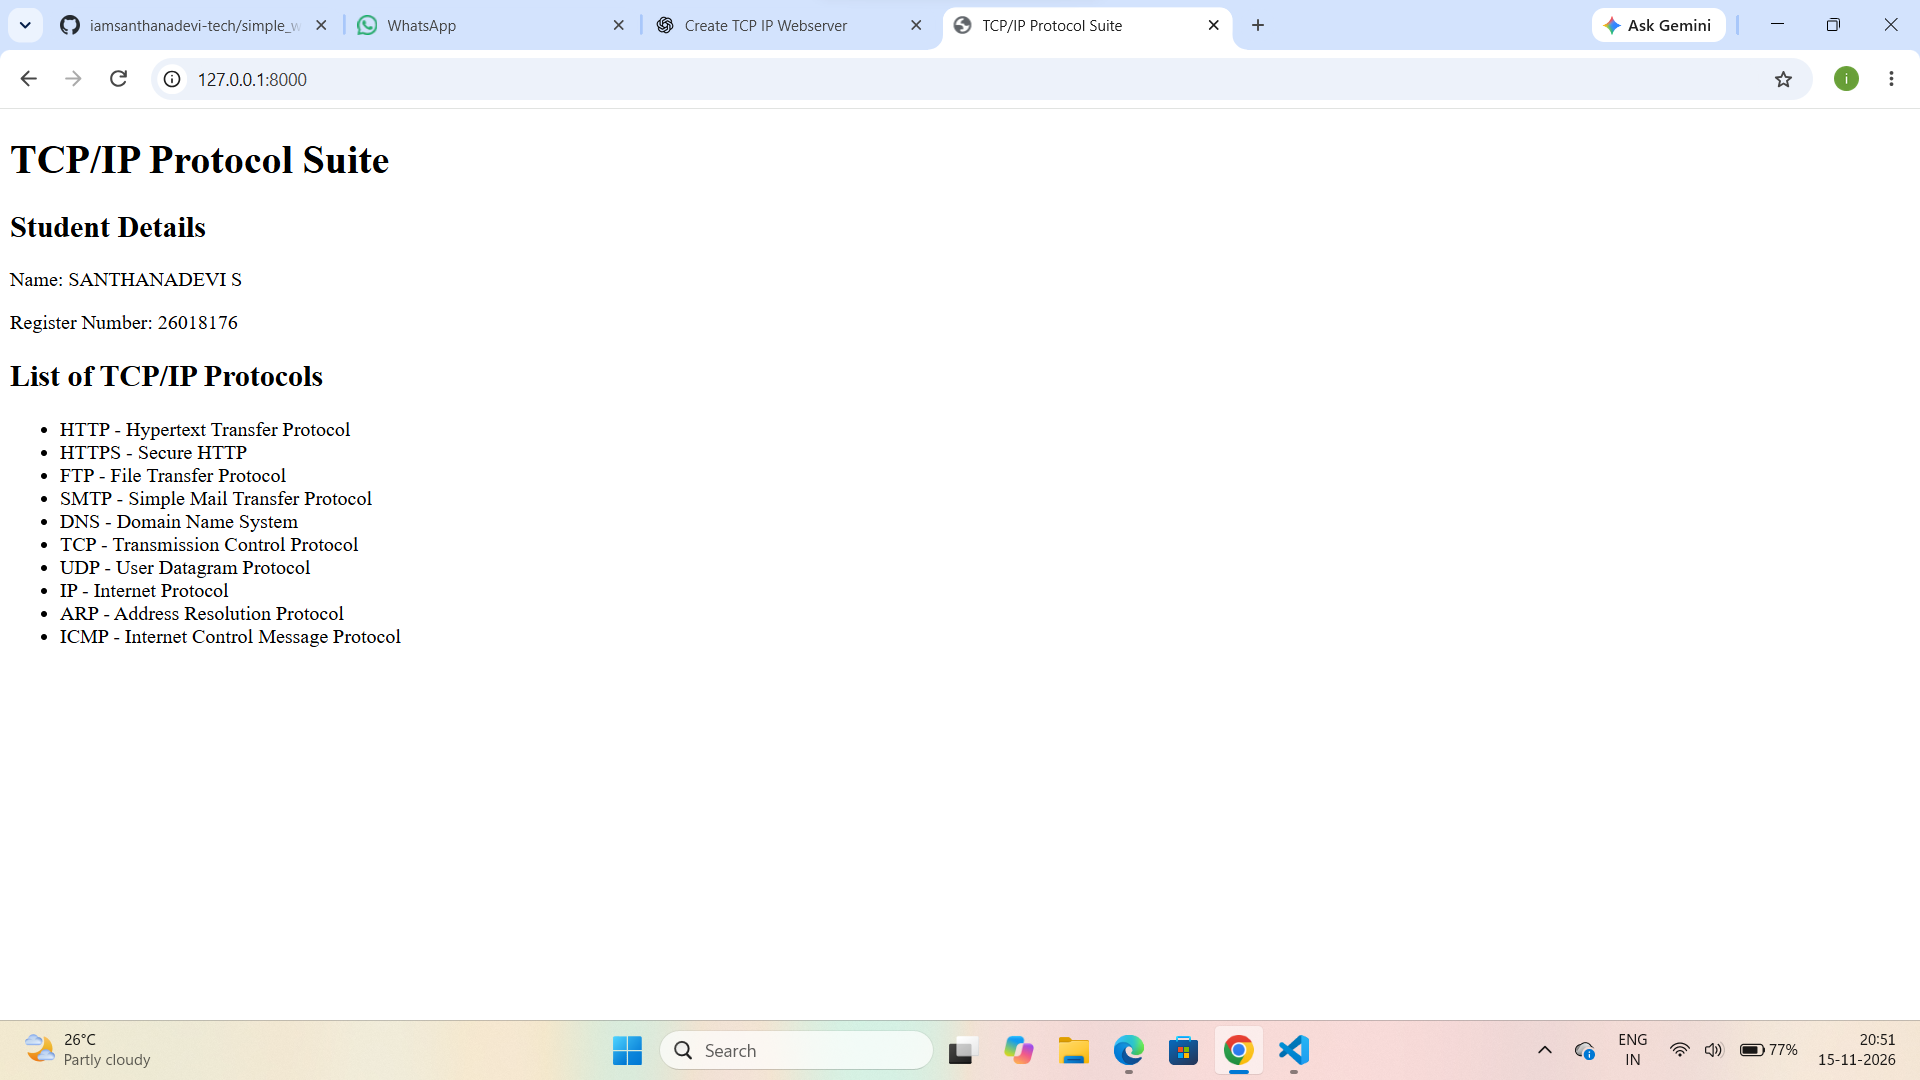
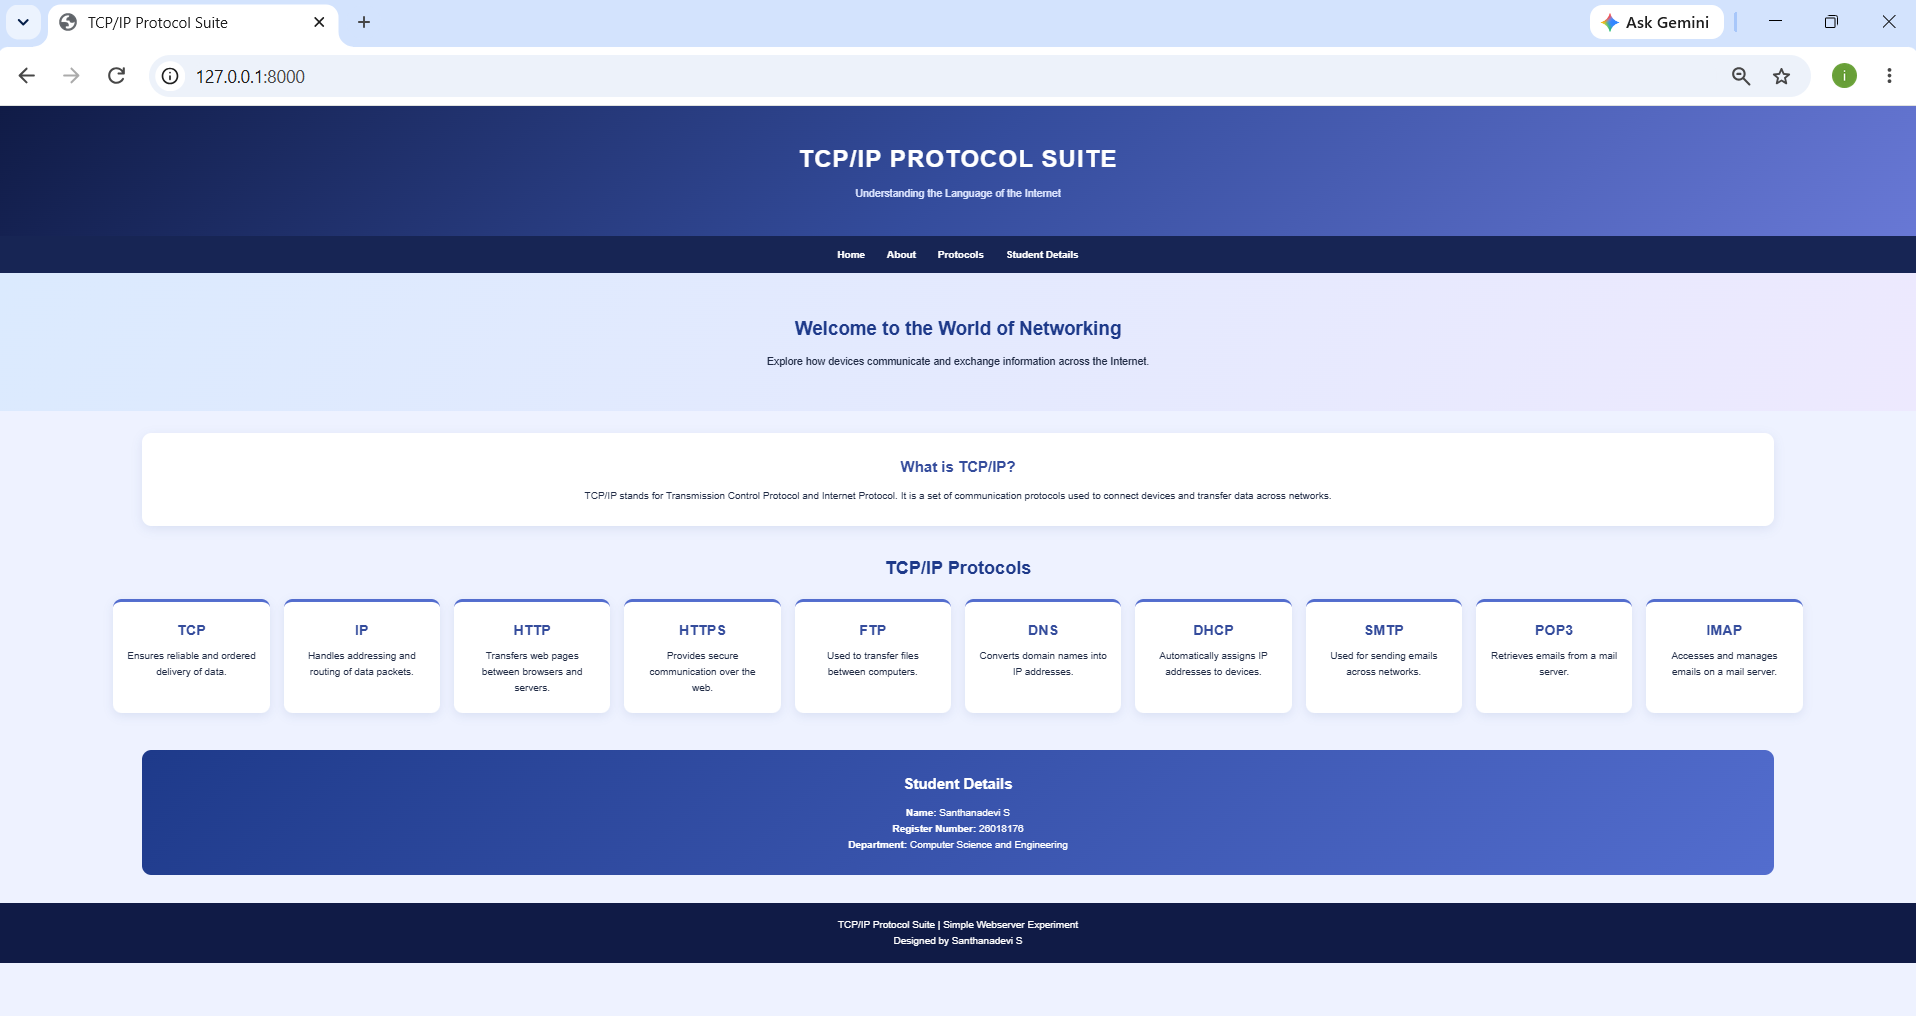
Updated Simple Web Server Experiment

diff --git a/README.md b/README.md
@@ -20,20 +20,288 @@ Serving the HTML pages.
 ## Step 5:
 Testing the webserver.
 
-# PROGRAM:from http.server import HTTPServer, SimpleHTTPRequestHandler
+# PROGRAM:PROGRAM:
+from http.server import HTTPServer, SimpleHTTPRequestHandler
 
-server_address = ("127.0.0.1", 8000)
+HOST = "127.0.0.1"
+PORT = 8000
 
-http_server = HTTPServer(
-    server_address,
-    SimpleHTTPRequestHandler
-)
+server = HTTPServer((HOST, PORT), SimpleHTTPRequestHandler)
 
-print("Web Server is running...")
-print("Open http://127.0.0.1:8000")
+print("TCP/IP Web Server Started!")
+print(f"Open your browser: http://{HOST}:{PORT}")
 
-http_server.serve_forever()
-# OUTPUT:<img width="1920" height="1080" alt="output" src="https://github.com/user-attachments/assets/38652850-9db1-4acf-afca-03f31d4b5b3a" />
+try:
+    server.serve_forever()
+except KeyboardInterrupt:
+    print("Server stopped.")
+    server.server_close()
+HTML PROGRAM:
+<!DOCTYPE html>
+<html lang="en">
+<head>
+    <meta charset="UTF-8">
+    <meta name="viewport" content="width=device-width, initial-scale=1.0">
+    <title>TCP/IP Protocol Suite</title>
+    <link rel="stylesheet" href="style.css">
+</head>
+<body>
 
+<header>
+    <h1>TCP/IP PROTOCOL SUITE</h1>
+    <p>Understanding the Language of the Internet</p>
+</header>
+
+<nav>
+    <a href="#home">Home</a>
+    <a href="#about">About</a>
+    <a href="#protocols">Protocols</a>
+    <a href="#student">Student Details</a>
+</nav>
+
+<section id="home" class="hero">
+    <h2>Welcome to the World of Networking</h2>
+    <p>Explore how devices communicate across the Internet.</p>
+</section>
+
+<section id="about" class="about">
+    <h2>What is TCP/IP?</h2>
+    <p>
+        TCP/IP stands for Transmission Control Protocol and
+        Internet Protocol. It is a set of communication
+        protocols used to connect devices and transfer data.
+    </p>
+</section>
+
+<section id="protocols">
+    <h2 class="section-title">TCP/IP Protocols</h2>
+    <div class="protocol-container">
+
+        <div class="protocol-card">
+            <h3>TCP</h3>
+            <p>Ensures reliable delivery of data.</p>
+        </div>
+
+        <div class="protocol-card">
+            <h3>IP</h3>
+            <p>Handles addressing and routing.</p>
+        </div>
+
+        <div class="protocol-card">
+            <h3>HTTP</h3>
+            <p>Transfers web pages.</p>
+        </div>
+
+        <div class="protocol-card">
+            <h3>HTTPS</h3>
+            <p>Provides secure web communication.</p>
+        </div>
+
+        <div class="protocol-card">
+            <h3>FTP</h3>
+            <p>Transfers files between computers.</p>
+        </div>
+
+        <div class="protocol-card">
+            <h3>DNS</h3>
+            <p>Converts domain names into IP addresses.</p>
+        </div>
+
+        <div class="protocol-card">
+            <h3>DHCP</h3>
+            <p>Assigns IP addresses automatically.</p>
+        </div>
+
+        <div class="protocol-card">
+            <h3>SMTP</h3>
+            <p>Used for sending emails.</p>
+        </div>
+
+        <div class="protocol-card">
+            <h3>POP3</h3>
+            <p>Retrieves emails from a server.</p>
+        </div>
+
+        <div class="protocol-card">
+            <h3>IMAP</h3>
+            <p>Manages emails on a server.</p>
+        </div>
+
+    </div>
+</section>
+
+<section id="student" class="student">
+    <h2>Student Details</h2>
+    <p><strong>Name:</strong> Santhanadevi S</p>
+    <p><strong>Register Number:</strong> 26018176</p>
+    <p><strong>Department:</strong> Computer Science and Engineering</p>
+</section>
+
+<footer>
+    <p>TCP/IP Protocol Suite | Simple Webserver Experiment</p>
+    <p>Designed by Santhanadevi S</p>
+</footer>
+
+</body>
+</html>
+CSS PROGRAM:
+* {
+    margin: 0;
+    padding: 0;
+    box-sizing: border-box;
+    scroll-behavior: smooth;
+}
+
+body {
+    font-family: Arial, sans-serif;
+    background: #eef2ff;
+    color: #202b45;
+    line-height: 1.6;
+}
+
+header {
+    background: linear-gradient(135deg, #101b46, #344c9c, #6878d5);
+    color: white;
+    text-align: center;
+    padding: 55px 20px;
+}
+
+header h1 {
+    font-size: 38px;
+    letter-spacing: 2px;
+    margin-bottom: 10px;
+}
+
+header p {
+    font-size: 17px;
+    color: #dce5ff;
+}
+
+nav {
+    background: #172554;
+    display: flex;
+    justify-content: center;
+    flex-wrap: wrap;
+    gap: 35px;
+    padding: 17px;
+}
+
+nav a {
+    color: white;
+    text-decoration: none;
+    font-weight: bold;
+    transition: 0.3s;
+}
+
+nav a:hover {
+    color: #93c5fd;
+}
+
+.hero {
+    text-align: center;
+    padding: 65px 20px;
+    background: linear-gradient(120deg, #dbeafe, #ede9fe);
+}
+
+.hero h2 {
+    font-size: 30px;
+    color: #1e3a8a;
+    margin-bottom: 15px;
+}
+
+.hero p {
+    font-size: 17px;
+    max-width: 700px;
+    margin: auto;
+}
+
+.about {
+    background: white;
+    margin: 35px auto;
+    padding: 35px;
+    width: 85%;
+    border-radius: 15px;
+    box-shadow: 0 5px 18px rgba(30, 58, 138, 0.10);
+    text-align: center;
+}
+
+.about h2 {
+    color: #344c9c;
+    margin-bottom: 15px;
+}
+
+.section-title {
+    text-align: center;
+    color: #1e3a8a;
+    font-size: 29px;
+    margin: 45px 0 25px;
+}
+
+.protocol-container {
+    width: 88%;
+    margin: auto;
+    display: grid;
+    grid-template-columns: repeat(auto-fit, minmax(220px, 1fr));
+    gap: 22px;
+    padding-bottom: 40px;
+}
+
+.protocol-card {
+    background: white;
+    padding: 27px 22px;
+    border-radius: 14px;
+    border-top: 5px solid #536dce;
+    box-shadow: 0 5px 15px rgba(30, 58, 138, 0.10);
+    transition: transform 0.3s, box-shadow 0.3s;
+    text-align: center;
+}
+
+.protocol-card:hover {
+    transform: translateY(-7px);
+    box-shadow: 0 10px 22px rgba(30, 58, 138, 0.18);
+}
+
+.protocol-card h3 {
+    color: #344c9c;
+    font-size: 23px;
+    margin-bottom: 10px;
+}
+
+.student {
+    background: linear-gradient(135deg, #1e3a8a, #536dce);
+    color: white;
+    width: 85%;
+    margin: 20px auto 45px;
+    padding: 35px;
+    border-radius: 15px;
+    text-align: center;
+}
+
+.student h2 {
+    margin-bottom: 15px;
+}
+
+footer {
+    background: #101b46;
+    color: white;
+    text-align: center;
+    padding: 22px;
+}
+
+@media (max-width: 600px) {
+    header h1 {
+        font-size: 27px;
+    }
+
+    nav {
+        gap: 18px;
+    }
+
+    .about, .student {
+        width: 92%;
+    }
+}
+
+# OUTPUT:![alt text](<Screenshot 2026-11-20 214755-1.png>)
 # RESULT:
 Thus, the simple web server was successfully developed and executed in localhost (127.0.0.1:8000) to serve HTML pages and display the TCP/IP Protocol Suite protocols.
